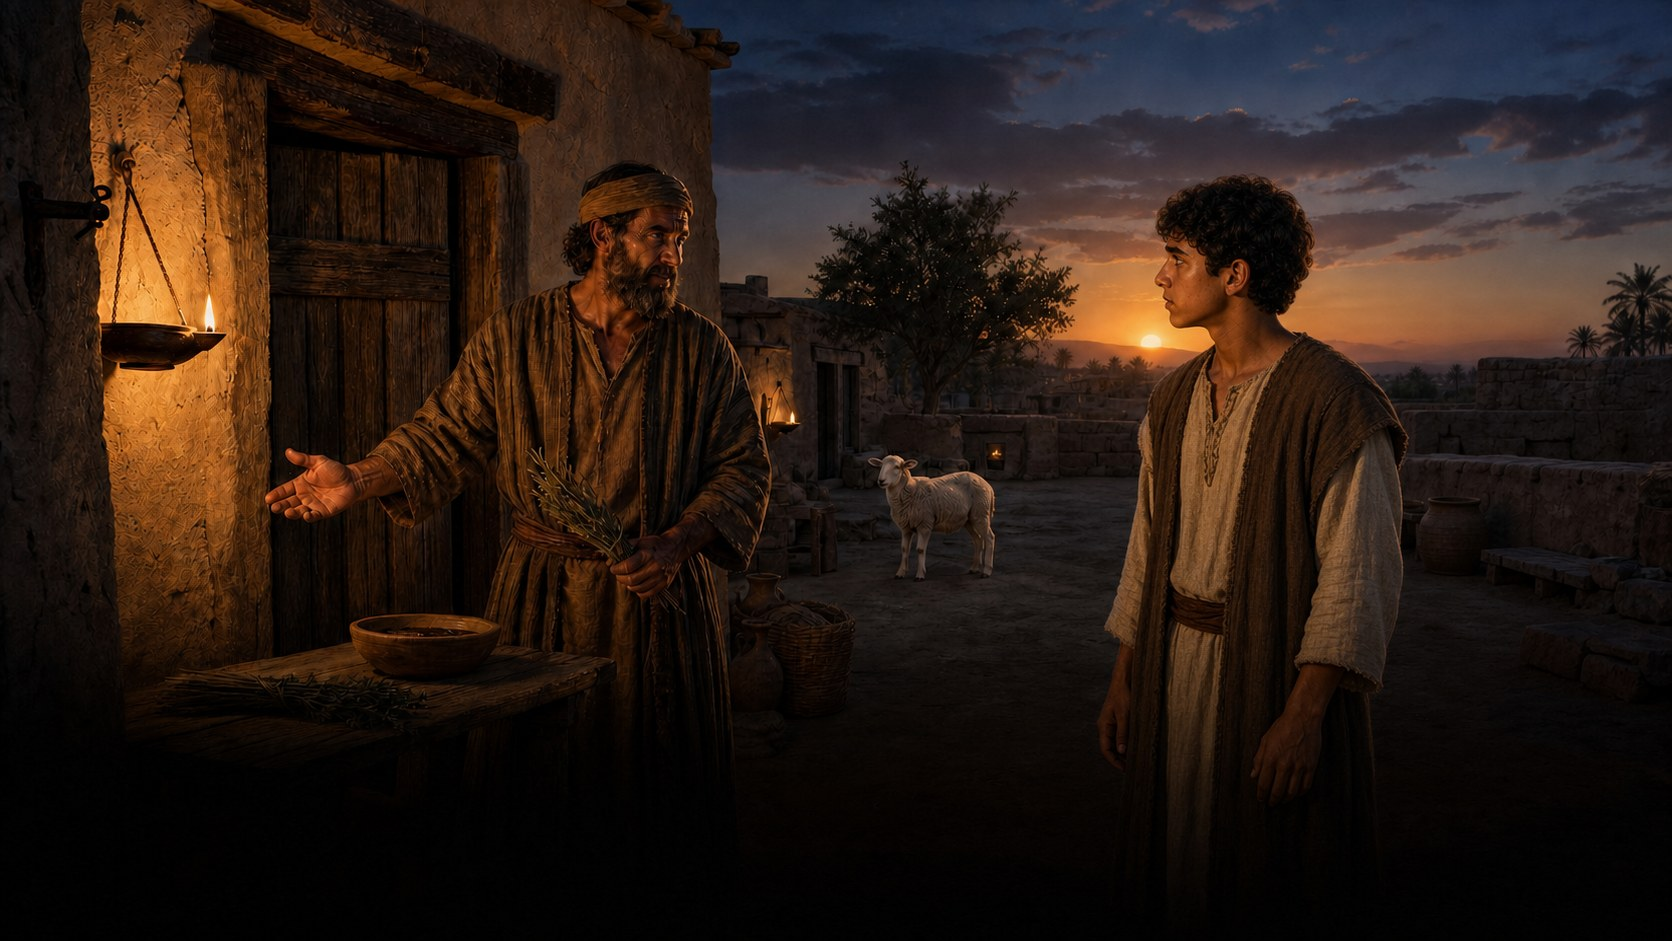
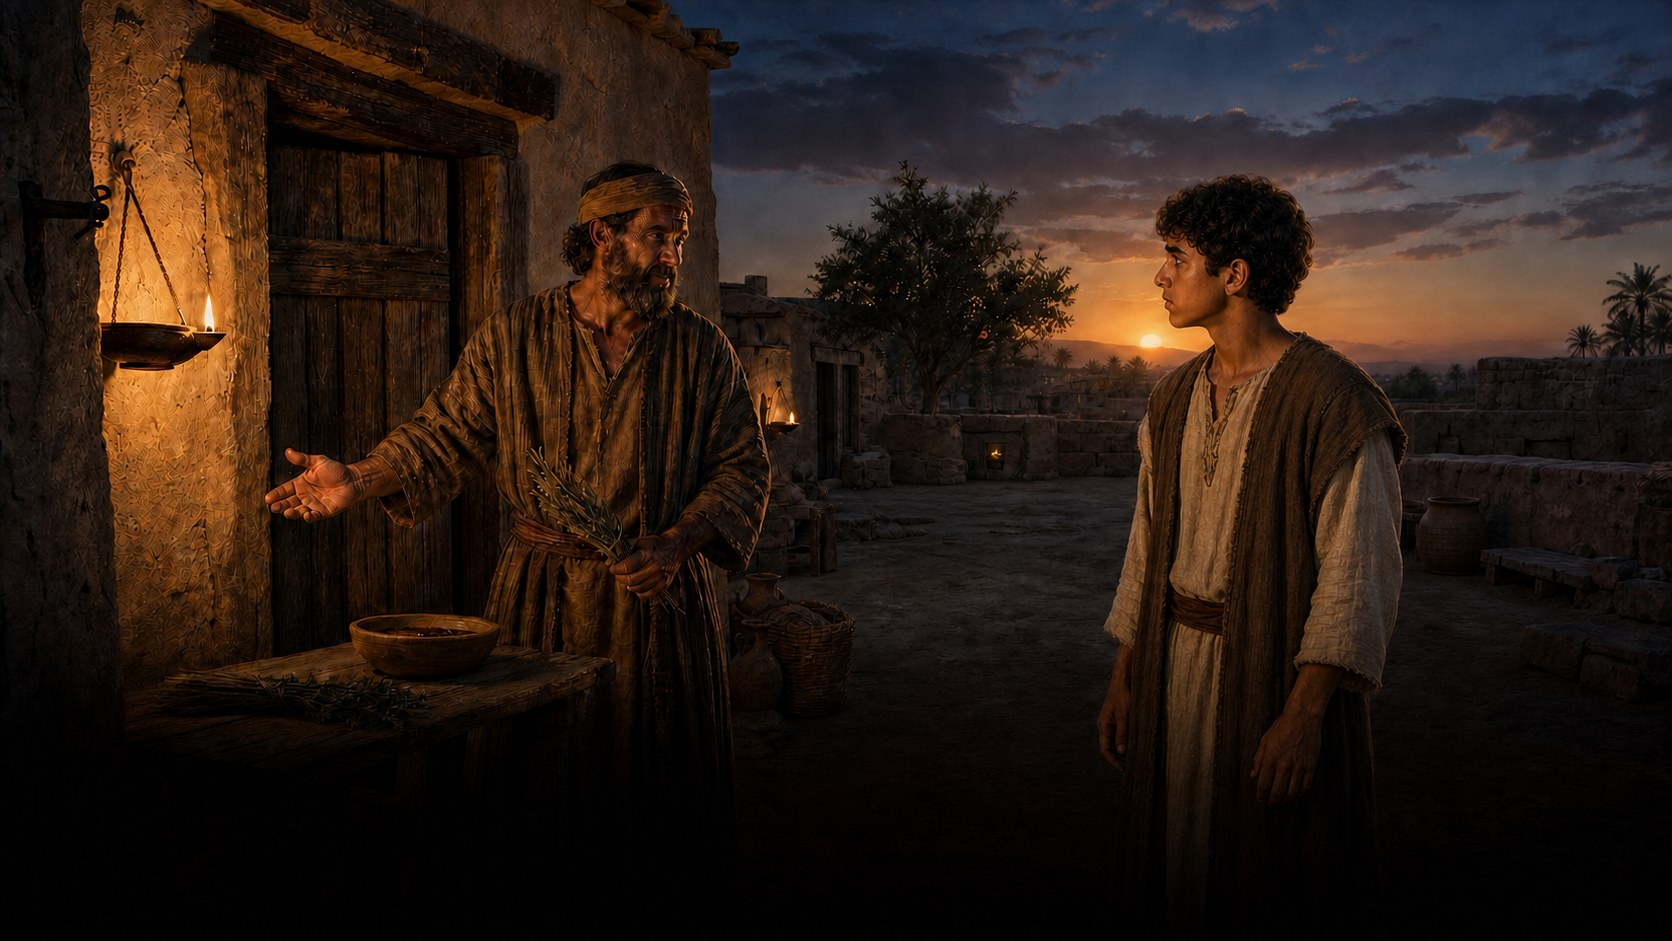
feat: 어린양의 약속 배경 이미지 업데이트 및 대사 수정
- bible-story-lamb-ready-sunset.jpg 이미지 리소스 교체
- JS: 기록자 대사 일부 수정 ("이 밤" → "이 때")
- CSS: 교체된 배경 이미지의 캐시 버스트 쿼리 파라미터 업데이트 (v3 → v4)
- HTML: CSS 캐시 버스트 쿼리 파라미터 업데이트 (v6.8 → v6.9)

diff --git a/src/main/resources/static/js/game/bible-story.js b/src/main/resources/static/js/game/bible-story.js
@@ -133,7 +133,7 @@ const scenes = [
           {phase: 'later-plagues', text: '가축이 쓰러지고 사람 몸에 악성 종기가 퍼졌다. 우박이 곡식을 때렸고, 메뚜기가 남은 이삭까지 갉아먹었다.', ref: '출애굽기 9–10장'},
           {phase: 'darkness', text: '아홉 번째로 사흘 동안 짙은 어둠이 이집트를 덮었다. 그런데도 바로는 요지부동, 고집을 꺾지 않았다.', ref: '출애굽기 10:21–23'},
           {phase: 'plague', text: '이제 남은 것은 열 번째, 마지막 재앙. 이집트의 모든 장자가 죽는 밤이다.', ref: '출애굽기 11:4–5'},
-          {phase: 'father-welcome', who: '기록자', text: '나는 기록자다. 심판이 예고된 이 밤, 하나님이 자기 백성에게 미리 열어 두신 구원의 길을 기록하러 왔다.'},
+          {phase: 'father-welcome', who: '기록자', text: '나는 기록자다. 심판이 예고된 이 때, 하나님이 자기 백성에게 미리 열어 두신 구원의 길을 기록하러 왔다.'},
           {phase: 'father-welcome', who: '기록자', text: '그 길은 군대도, 성벽도, 도망칠 국경도 아니었다. 모세를 통해 내려온 지시는 뜻밖에도 집집마다 준비할 어린양 한 마리였다.', ref: '출애굽기 12:3'},
           {phase: 'father-welcome', who: '기록자', text: '이 달 열흘에 흠 없는 일 년 된 수컷을 골라 두었다가, 열나흘 저녁 해 질 때에 잡으라 하셨다. 오늘이 바로 그 열나흘이다.', ref: '출애굽기 12:5–6'},
           {phase: 'father-welcome', who: '기록자', text: '해가 지평선에 걸릴 무렵, 나는 고센 땅의 한 집 앞에 이르렀다. 문간에는 어린양 한 마리가 매여 있었고, 그 곁에 빈 그릇이 놓여 있었다.'}

diff --git a/src/main/resources/templates/game/bible-story.html b/src/main/resources/templates/game/bible-story.html
@@ -1,7 +1,7 @@
 <!DOCTYPE html>
 <html xmlns:th="http://www.thymeleaf.org" lang="ko">
 <head
-    th:replace="~{fragments/head :: head('어린양의 약속 | ElSeeker', true, '/css/game/bible-story.css?v=6.8')}"
+    th:replace="~{fragments/head :: head('어린양의 약속 | ElSeeker', true, '/css/game/bible-story.css?v=6.9')}"
     th:with="robotsContent='noindex',
                  pageDescription='유월절의 밤을 직접 준비하고, 바다를 건너고, 만나를 거두며 십자가와 부활에서 그 의미를 발견하는 성경 스토리 체험입니다.'">
 </head>

diff --git a/src/main/resources/static/css/game/bible-story.css b/src/main/resources/static/css/game/bible-story.css
@@ -495,7 +495,7 @@ body.bible-story-page .site-header {
 .story-backdrop[data-theme="door"][data-phase="lamb-ready"] .story-backdrop-art {
     background:
         linear-gradient(180deg, rgba(8, 7, 7, 0.02), rgba(5, 5, 7, 0.42)),
-        #18151a url("/images/game/bible-story-lamb-ready-sunset.jpg?v=3") center / cover no-repeat;
+        #18151a url("/images/game/bible-story-lamb-ready-sunset.jpg?v=4") center / cover no-repeat;
 }
 
 .story-backdrop[data-theme="door"][data-phase="blood-door-safe"] .story-backdrop-art {
